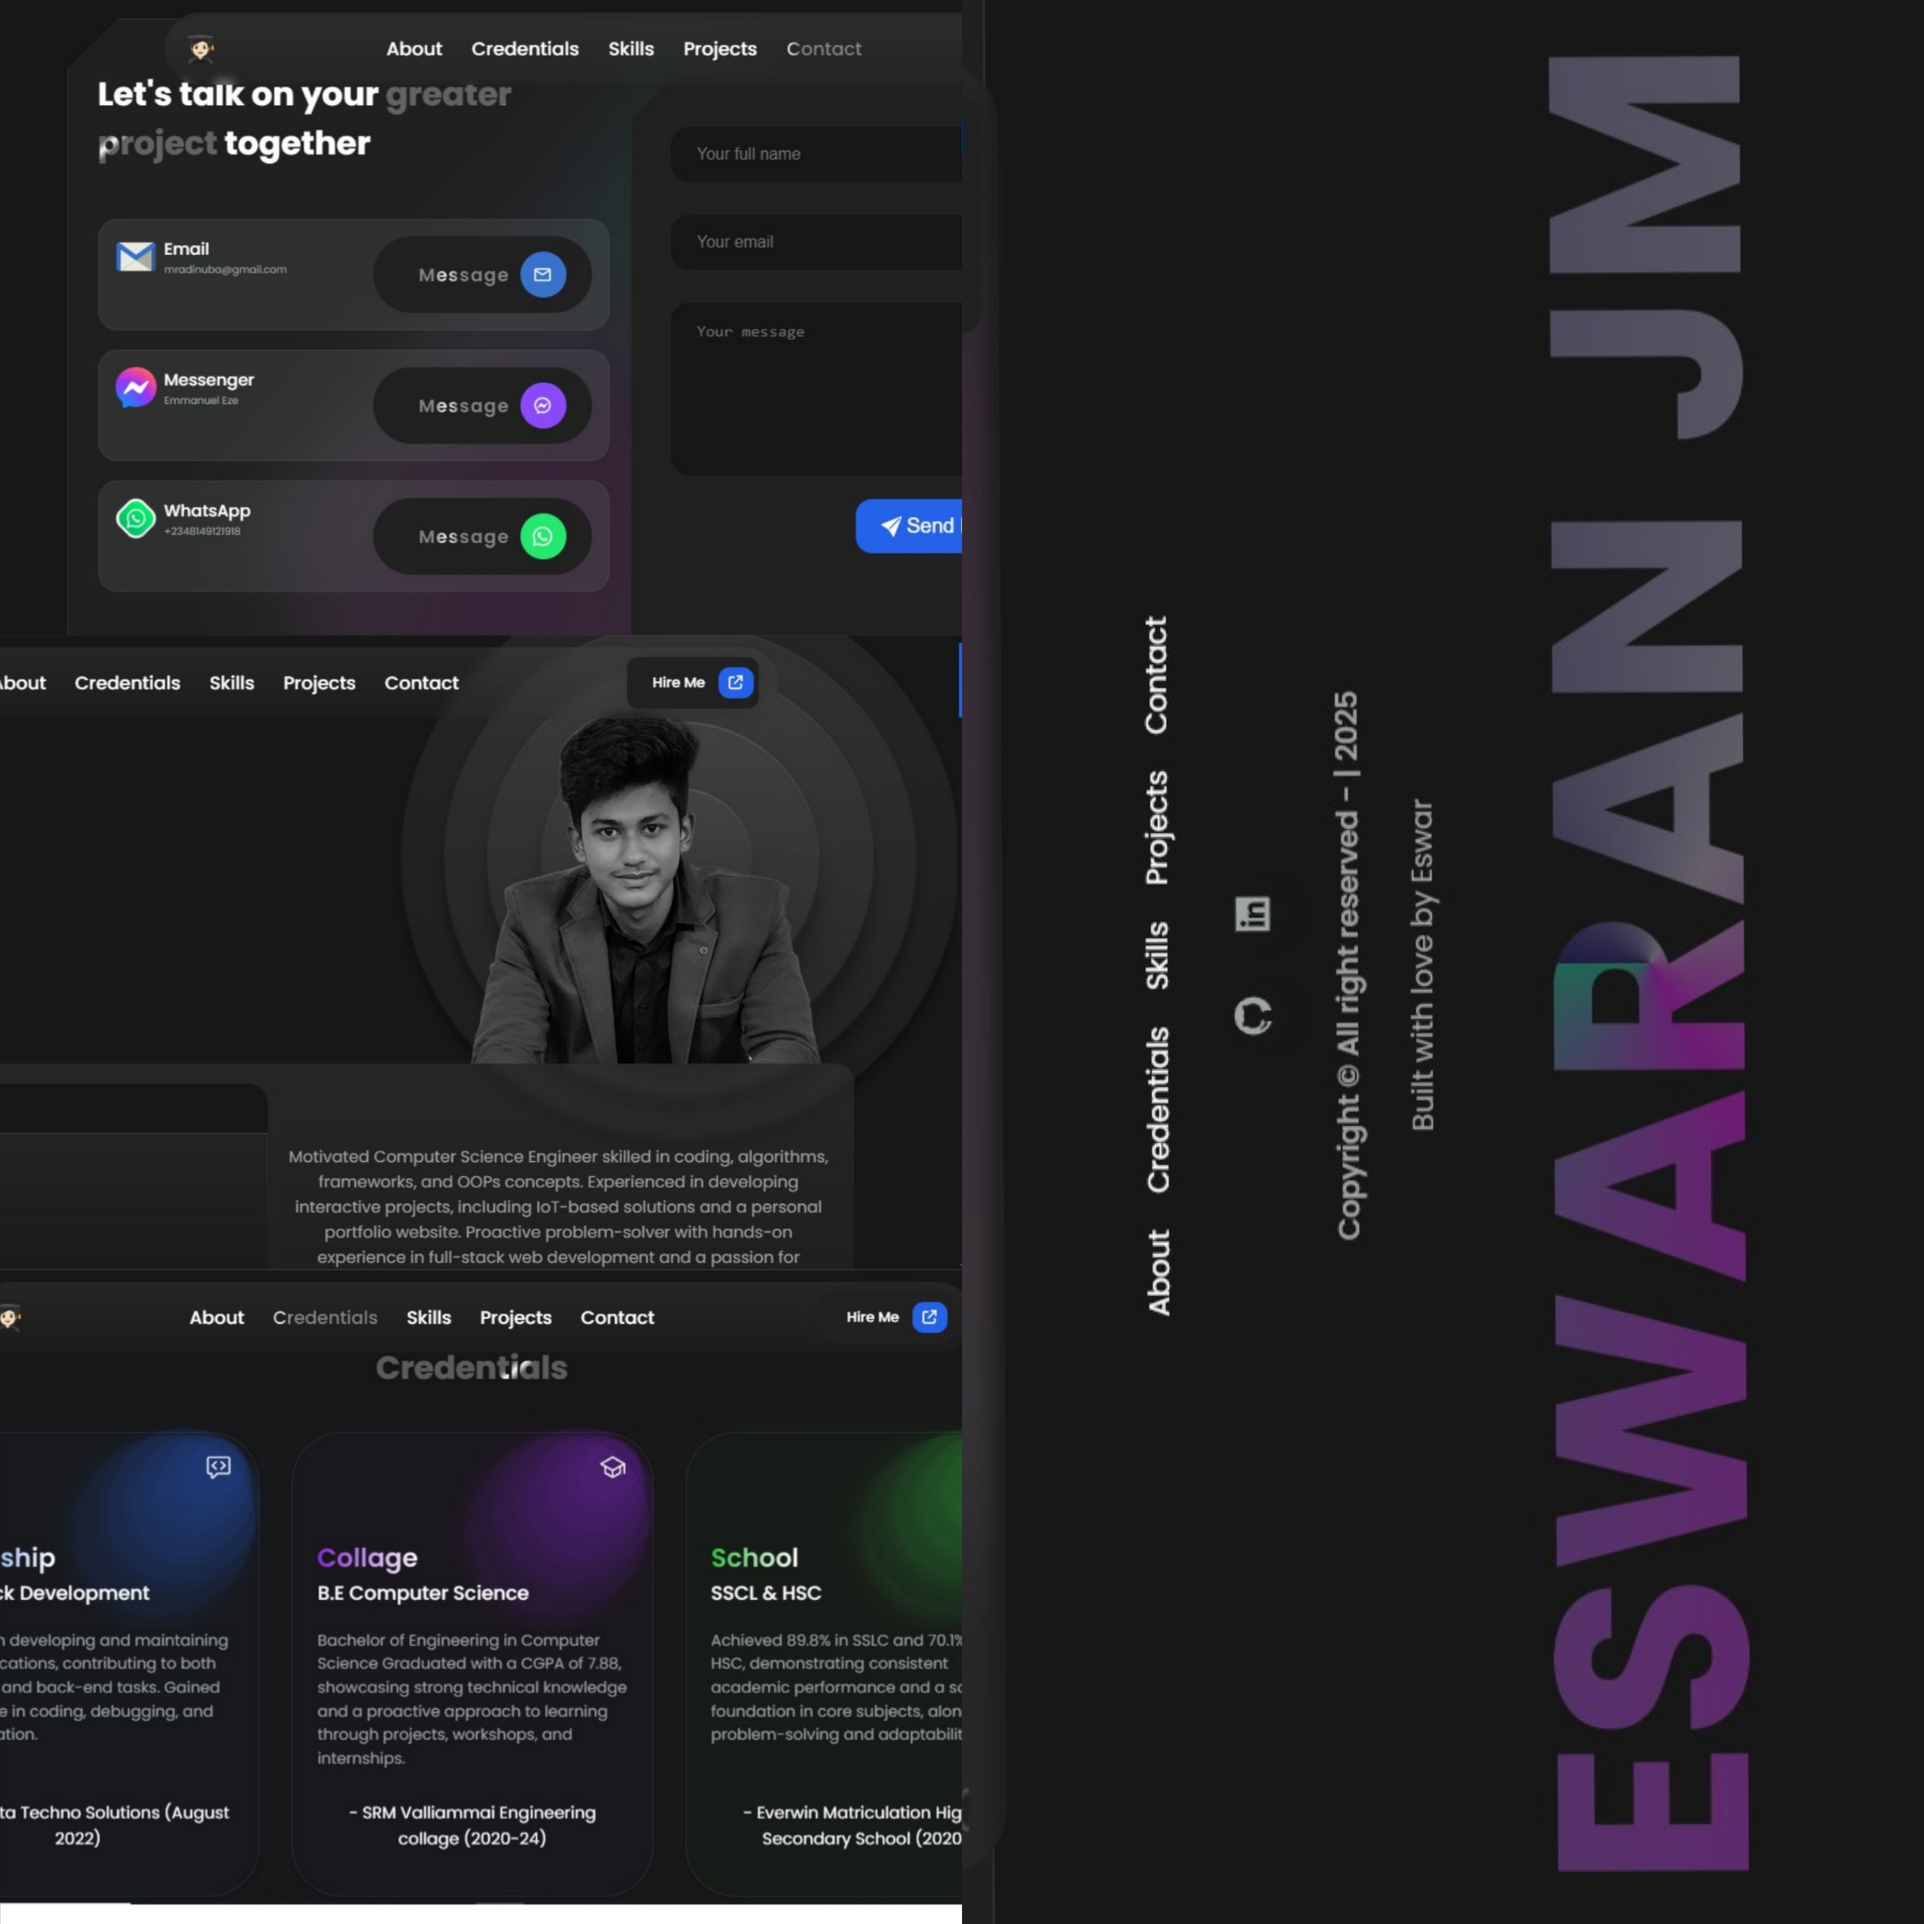
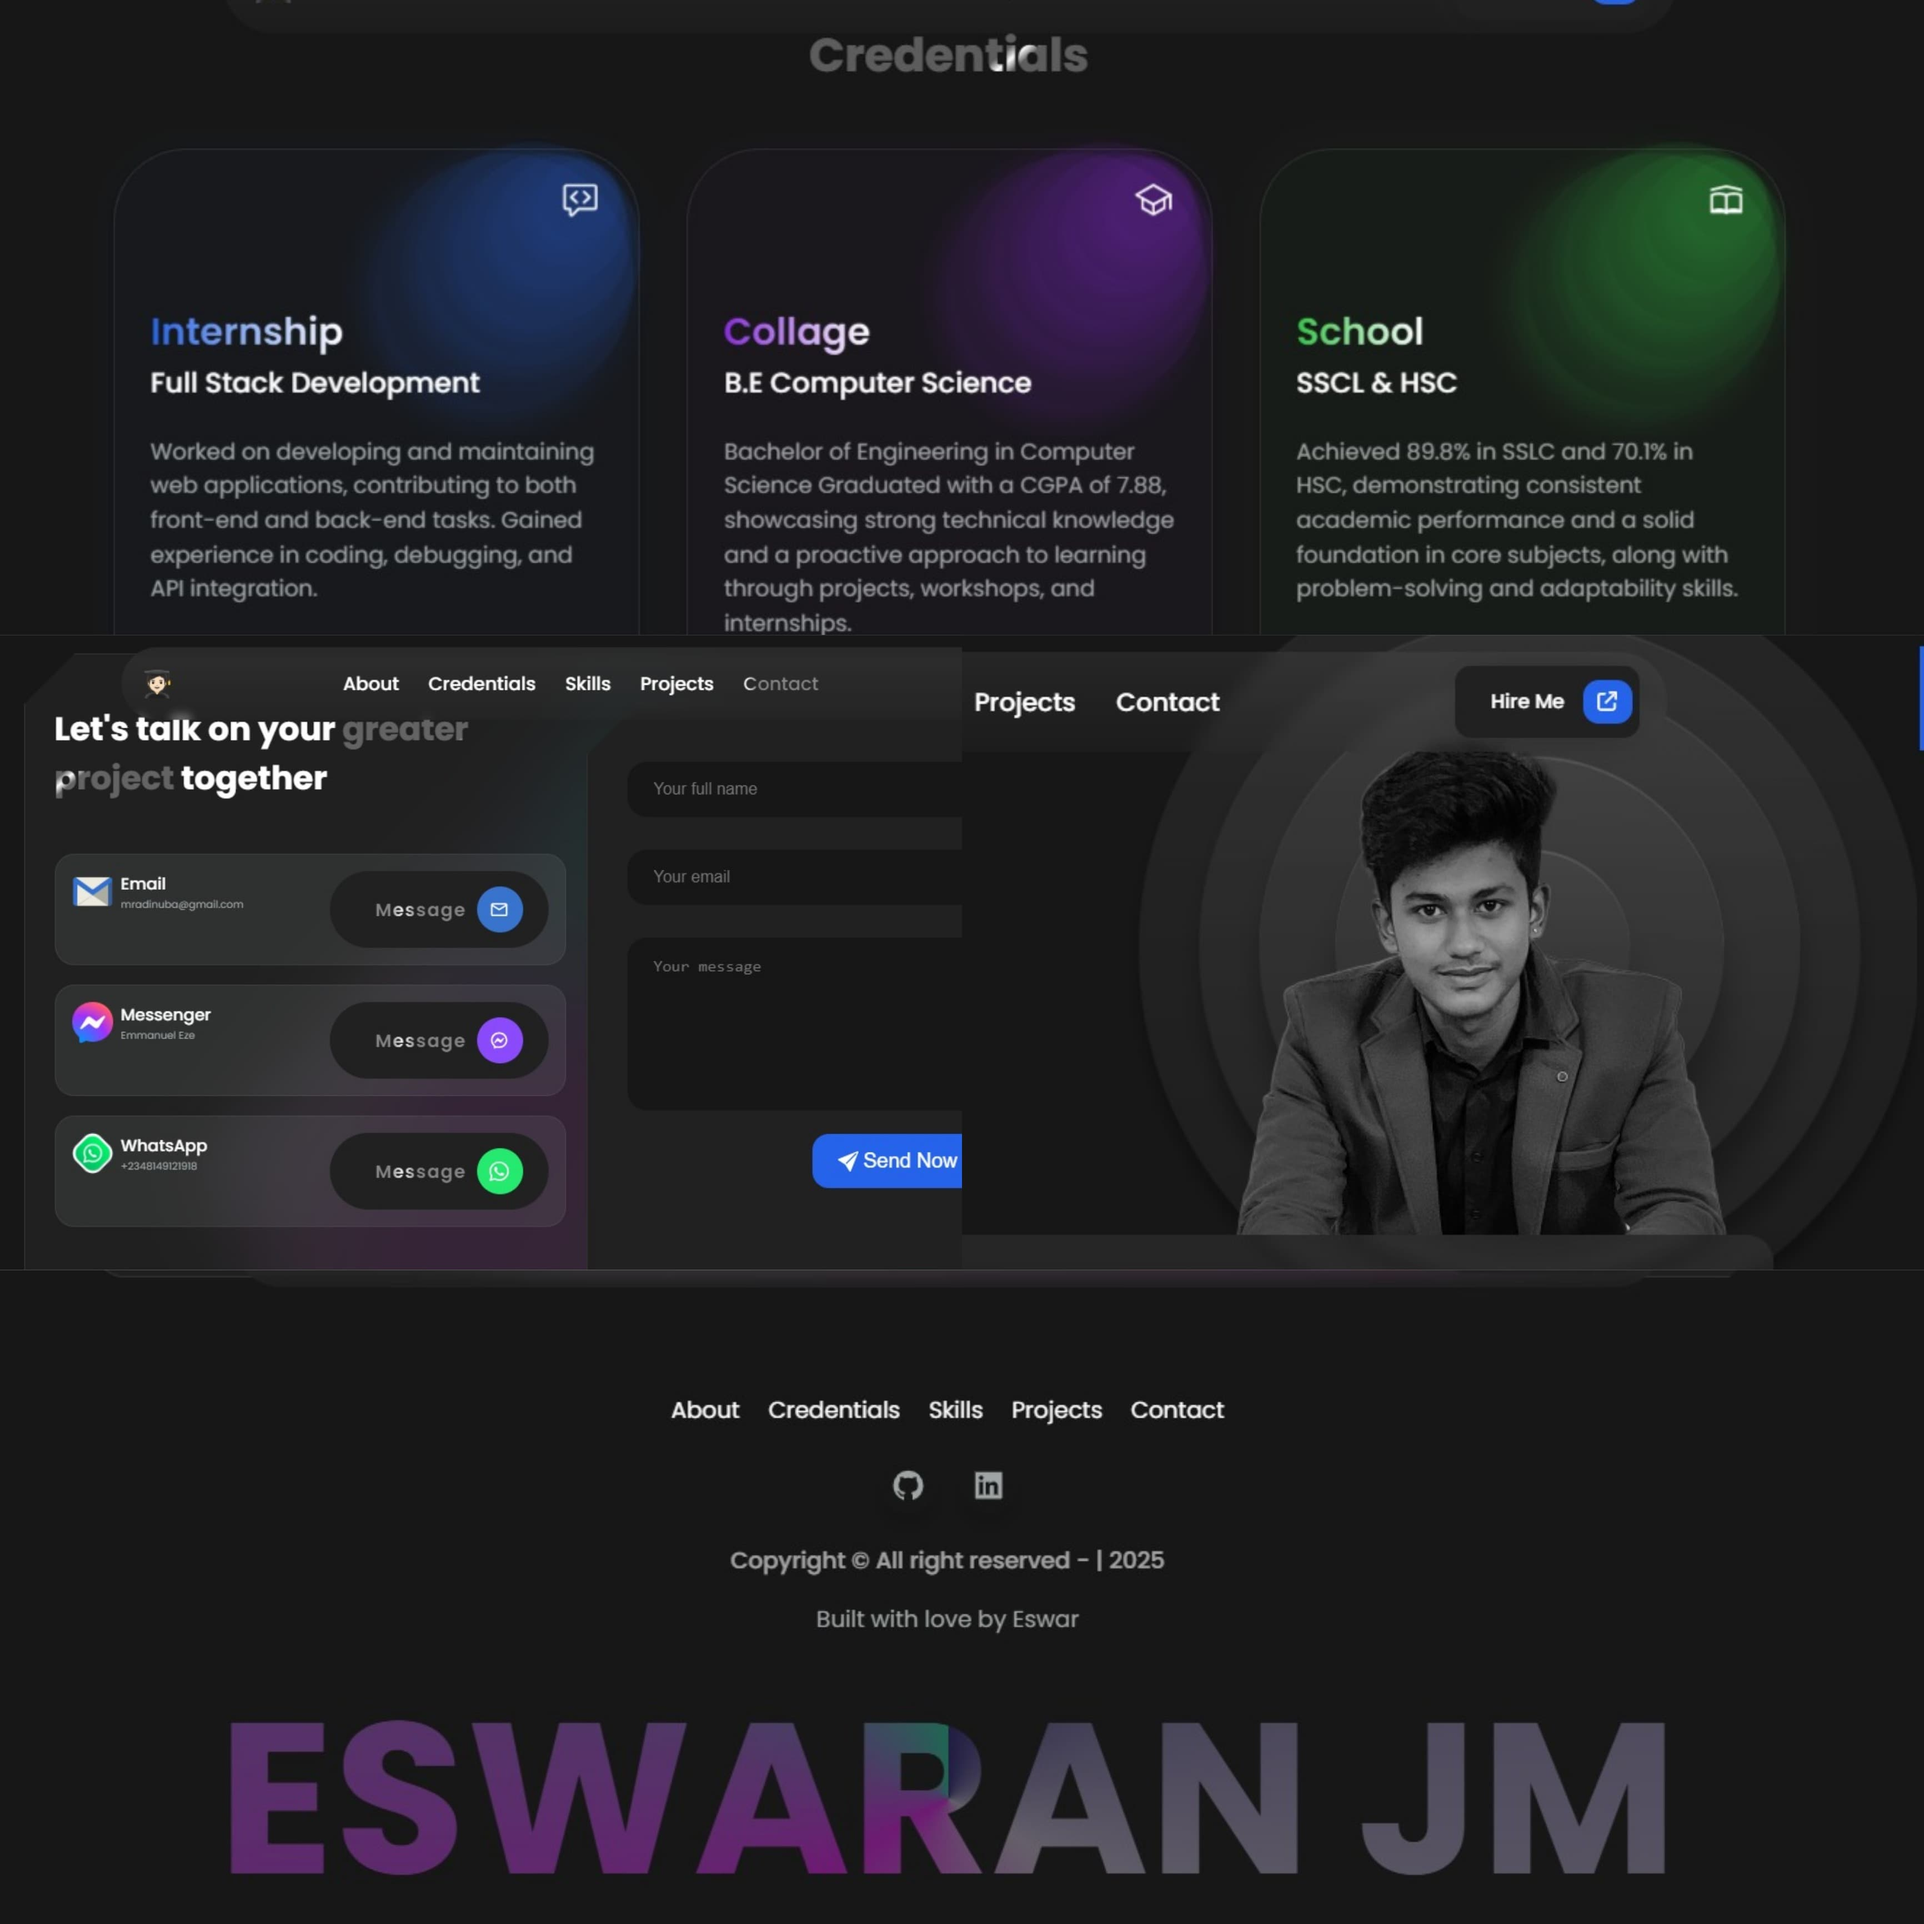
Final

diff --git a/src/components/Header/index.jsx b/src/components/Header/index.jsx
@@ -1,10 +1,10 @@
 import "./Header.css";
 import HeaderTitle from "../../ui/HeaderTitle";
-import {profile1 } from "../../assets/";
+import { profile1 } from "../../assets/";
 import CodeBlock from "../../ui/CodeBlock";
-import SocialHandles from "../../ui/SocialHandles"; 
+import SocialHandles from "../../ui/SocialHandles";
 import BreathCircle from "../../ui/BreathCircle";
-const code =`
+const code = `
 const developer={
   firstName:"ESWARAN",
   lastname:"JM",
@@ -15,39 +15,35 @@ const developer={
     //repeat();
     }
 }
-`
+`;
 const Header = () => {
   return (
-    <header id='header'>
+    <header id="header">
       <BreathCircle />
       <div className="section__wrapper">
         <div className="grid upper">
-        
           <div className="column">
-            
             <HeaderTitle />
           </div>
           <div className="shine abc">Full Stack Developer</div>
           <div className="column1">
-            <img src={profile1} className="profile__photo" alt=""/>
+            <img src={profile1} className="profile__photo" alt="" />
           </div>
         </div>
         <div className=" card grid lower">
-          <CodeBlock 
-            language={"javascript"} 
-            code={code}/>
-            <div>
-              <p className="text__muted description">
-              Motivated Computer Science Engineer skilled in coding,
-          algorithms, frameworks, and OOPs concepts. Experienced in
-          developing interactive projects, including IoT-based solutions
-          and a personal portfolio website. Proactive problem-solver with
-          hands-on experience in full-stack web development and a
-          passion for learning new technologies.
-              </p>
-              
-              <SocialHandles/>
-            </div>
+          <CodeBlock language={"javascript"} code={code} />
+          <div>
+            <p className="text__muted description">
+              Motivated Computer Science Engineer  with expertise in coding,
+              algorithms, frameworks, and object-oriented programming (OOP).
+              Experienced in developing interactive projects and a personal
+              portfolio website. A proactive problem-solver with hands-on
+              experience in full-stack web development and a strong passion for
+              learning emerging technologies.
+            </p>
+
+            <SocialHandles />
+          </div>
         </div>
       </div>
     </header>

diff --git a/src/data.jsx b/src/data.jsx
@@ -36,7 +36,7 @@ export const projects = [
     title: "Personal Portfolio",
     image: project1,
     category: "Web",
-    description: `Developed a responsive and visually appealing portfolio website using React.js to showcase my skills, projects, and achievements, ensuring a seamless user experience.`,
+    description: `Developed a responsive and visually appealing React.js portfolio with a seamless user experience.`,
     demoLink: "https://google.com/",
     stacks: [
       {
@@ -46,10 +46,6 @@ export const projects = [
       {
         name: "JavaScript",
         logo: javascript,
-      },
-      {
-        name: "Tailwind",
-        logo: tailwind,
       }
     ],
   },
@@ -57,7 +53,7 @@ export const projects = [
     title: "E-Commerce Application",
     image: project2,
     category: "Web",
-    description: `Developed a dynamic and user-friendly e-commerce website using the MERN stack (MongoDB, Express.js, React.js, and Node.js) with features for product management, user authentication, and secure payment integration.`,
+    description: `Developed a dynamic e-commerce website using MERN and Redux with user authentication and secure payments.`,
     demoLink: "https://google.com/",
     stacks: [
      
@@ -76,6 +72,10 @@ export const projects = [
       {
         name: "NodeJs",
         logo: node,
+      },
+      {
+        name: "Tailwind",
+        logo: tailwind,
       }
     ],
   },
@@ -84,10 +84,7 @@ export const projects = [
     image: project3,
     category: "Project",
     description: `Developed a system to enhance user interaction by
-converting laptop camera modules into gesture sensors.
-Enabled cursor control through real-time gesture
-detection using computer vision techniques, minimizing
-reliance on traditional input devices.`,
+converting laptop camera modules into gesture sensors.`,
     demoLink: "https://google.com/",
     stacks: [
       
@@ -203,7 +200,7 @@ export const socialHandles = [
 export const credentials = [
   {
     name: "Full Stack Development",
-    at: "- Stigmata Techno Solutions (August 2022)",
+    at: "- Stigmata Techno Solutions",
     title: "Internship",
     icon: <GoCodeReview />,
     description: `Worked on developing and maintaining web applications, contributing to both front-end and back-end tasks. Gained experience in coding, debugging, and API integration.`,

diff --git a/src/components/Footer/index.jsx b/src/components/Footer/index.jsx
@@ -16,10 +16,10 @@ const Footer = () => {
                key={index}
                >
                    {list.name}
-               </Link>
+               </Link> 
           ))}
-        </ul> 
-        <SocialHandles/>
+        </ul> <div className="social"><SocialHandles />
+        </div>
         <div className="copyright">
           <h3>Copyright &copy; All right reserved - | 2025</h3>
           <p className="text__muted">Built with love by Eswar</p>

diff --git a/src/components/Footer/Footer.css b/src/components/Footer/Footer.css
@@ -50,7 +50,9 @@ footer .copyright h3{
     footer .nav{
         flex-direction: column;
     }
-    footer .social__handles__container{
-        justify-self: center;
+    footer .social{
+        display: flex;
+        position: relative;
+        justify-content: center;
     }
 }

diff --git a/src/components/Navbar/Navbar.css b/src/components/Navbar/Navbar.css
@@ -138,10 +138,12 @@
       align-items: stretch;
       justify-content: flex-start;
       flex-direction: column;
-      gap: 0px;
+      gap: 20px;
+      margin-top: 30px;
     }
     .navbar .menu,
     .navbar .close__btn{
       display:flex;
     }
   }
+

diff --git a/src/components/Skills/Skills.css b/src/components/Skills/Skills.css
@@ -20,7 +20,7 @@
 
 @media (max-width:600px){
     #skills .skill__container{
-        gap: 1rem;
+        gap: 3rem;
     }
     #skills .skill__container .skill__card{
         width: 100%;
